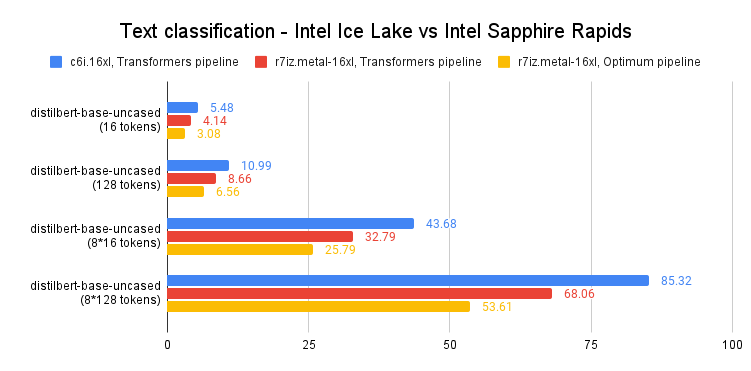
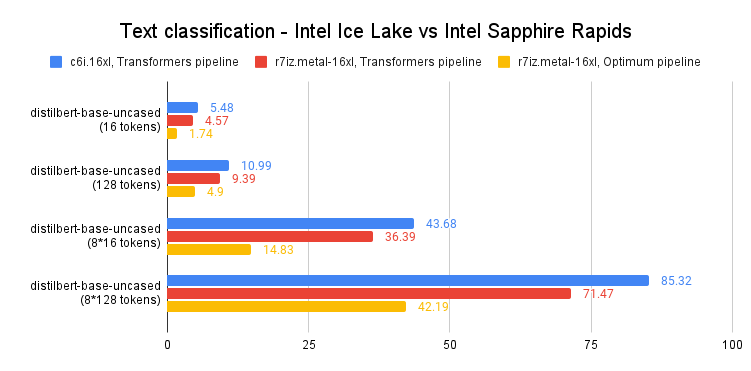
- Added jit mode - Updated benchmarks - Small clarifications and edits

diff --git a/intel-sapphire-rapids-inference.md b/intel-sapphire-rapids-inference.md
@@ -24,7 +24,7 @@ Accelerating PyTorch Transformers with Intel Sapphire Rapids, part 2</h1>
     </a>
 </div>
 
-In a [recent post](https://huggingface.co/blog/intel-sapphire-rapids), we introduced you to the fourth generation of Intel Xeon CPUs, code-named [Sapphire Rapids](https://en.wikipedia.org/wiki/Sapphire_Rapids), and its new Advanced Matrix Extensions ([AMX](https://en.wikipedia.org/wiki/Advanced_Matrix_Extensions)) instruction set. Combining a cluster of Sapphire Rapids servers running on Amazon EC2 and Intel libraries like the [Intel oneAPI Collective Communications Library](https://www.intel.com/content/www/us/en/developer/tools/oneapi/oneccl.html) (CCL) and the [Intel Extension for PyTorch](https://github.com/intel/intel-extension-for-pytorch), we showed you how to efficiently run distributed training at scale, achieving both an 8-fold speedup compared to the previous Xeon generation (Ice Lake) and near-linear scaling.
+In a [recent post](https://huggingface.co/blog/intel-sapphire-rapids), we introduced you to the fourth generation of Intel Xeon CPUs, code-named [Sapphire Rapids](https://en.wikipedia.org/wiki/Sapphire_Rapids), and its new Advanced Matrix Extensions ([AMX](https://en.wikipedia.org/wiki/Advanced_Matrix_Extensions)) instruction set. Combining a cluster of Sapphire Rapids servers running on Amazon EC2 and Intel libraries like the [Intel Extension for PyTorch](https://github.com/intel/intel-extension-for-pytorch), we showed you how to efficiently run distributed training at scale, achieving an 8-fold speedup compared to the previous Xeon generation (Ice Lake) with near-linear scaling.
 
 In this post, we're going to focus on inference. Working with popular HuggingFace transformers implemented with PyTorch, we'll first measure their performance on an Ice Lake server for short and long NLP token sequences. Then, we'll do the same with a Sapphire Rapids server and the latest version of Hugging Face [Optimum Intel](https://github.com/huggingface/optimum-intel), an open-source library dedicated to hardware acceleration for Intel platforms.
 
@@ -53,7 +53,7 @@ Both instances have 32 physical cores (thus, 64 vCPUs). We will set them up in t
 * PyTorch 1.13 with Intel Extension for PyTorch 1.13, 
 * Transformers 4.25.1.
 
-The only difference will be the Optimum Intel Library on the r7iz instance.
+The only difference will be the addition of the Optimum Intel Library on the r7iz instance.
 
 Here are the setup steps. As usual, we recommend using a virtual environment to keep things nice and tidy.
 
@@ -73,11 +73,10 @@ source inference_env/bin/activate
 
 pip3 install torch==1.13.0 -f https://download.pytorch.org/whl/cpu
 pip3 install intel_extension_for_pytorch==1.13.0 -f https://developer.intel.com/ipex-whl-stable-cpu
-pip3 install transformers==4.25.1
+pip3 install transformers
 
 # Only needed on the r7iz instance
 pip3 install optimum[intel]
-
 ```
 
 Once we've completed these steps on the two instances, we can start running our tests.
@@ -96,7 +95,7 @@ Using both 16-token and 128-token sentences, we will measure mean and p99 predic
 sentence_short = "This is a really nice pair of shoes, I am completely satisfied with my purchase"
 sentence_short_array = [sentence_short] * 8
 
-sentence_long = "These Adidas Lite Racer shoes hit a nice sweet spot for comfort shoes. Despite being a little snug in the toe box, these are very comfortable to wear and provide nice support while wearing. I would stop short of saying they are good running shoes or cross-trainers because they simply lack the ankle and arch support most would desire in those type of shoes and the treads wear fairly quickly, but they are definitely comfortable. I actually walked around Disney World all day in these without issue if that is any reference. Bottom line, I use these as the shoes they are best; versatile, inexpensive and comfortable, without expecting the performance of a high-end athletic sneaker or expecting the comfort of my favorite pair of slippers."
+sentence_long = "These Adidas Lite Racer shoes hit a nice sweet spot for comfort shoes. Despite being a little snug in the toe box, these are very comfortable to wear and provide nice support while wearing. I would stop short of saying they are good running shoes or cross-trainers because they simply lack the ankle and arch support most would desire in those type of shoes and the treads wear fairly quickly, but they are definitely comfortable. I actually walked around Disney World all day in these without issue if that is any reference. Bottom line, I use these as the shoes they are best; versatile, inexpensive, and comfortable, without expecting the performance of a high-end athletic sneaker or expecting the comfort of my favorite pair of slippers."
 sentence_long_array = [sentence_long] * 8
 ```
 
@@ -139,14 +138,14 @@ for model in models:
     print(f"Transformers pipeline, long sentence array: {result}")
 ```
 
-On the r7iz (Sapphire Rapids) instance, we use both a vanilla pipeline and an Optimum pipeline in `bfloat16` mode to leverage the AMX instructions.
+On the r7iz (Sapphire Rapids) instance, we use both a vanilla pipeline and an Optimum pipeline. In the Optimum pipeline, we enable `bfloat16` mode to leverage the AMX instructions. We also set `jit` to `True` to further optimize the model with just-in-time compilation. 
 
 
 ```
    import torch
 	from optimum.intel import inference_mode
 	
-	with inference_mode(pipe, dtype=torch.bfloat16, verbose=False) as opt_pipe:
+	with inference_mode(pipe, dtype=torch.bfloat16, jit=True) as opt_pipe:
 	    result = benchmark(opt_pipe, sentence_short)
 	    print(f"Optimum pipeline, short sentence: {result}")
 	    result = benchmark(opt_pipe, sentence_long)
@@ -157,19 +156,19 @@ On the r7iz (Sapphire Rapids) instance, we use both a vanilla pipeline and an Op
 	    print(f"Optimum pipeline, long sentence array: {result}")
 ```
 
-For the sake of brevity, we'll just look at the p99 results for [distilbert-base-uncased](https://huggingface.co/distilbert-base-uncased). You'll find all other results at the end of the post. 
+For the sake of brevity, we'll just look at the p99 results for [distilbert-base-uncased](https://huggingface.co/distilbert-base-uncased). You'll find all the other results at the end of the post. 
 
 <kbd>
   <img src="assets/126_intel_sapphire_rapids_inference/01.png">
 </kbd>
 
-As you can see in the graph above, we get **35-40%** speedup out of the box, thanks to the combination of acceleration features present in the Sapphire Rapids architecture and in Hugging Face Optimum. 
+As you can see in the graph above, single predictions run **60-65%** faster compared to the previous generation of Xeon CPUs. In other words, thanks to the combination of Intel Sapphire Rapids and Hugging Face Optimum, you can accelerate your predictions 3x with only tiny changes to your code.
 
-This lets us achieve reach **single-digit prediction latency** even with long text sequences, which was only possible with GPUs so far.
+This lets you achieve reach **single-digit prediction latency** even with long text sequences, which was only possible with GPUs so far.
 
 ## Conclusion
 
-As you can see, the fourth generation of Intel Xeon CPUs delivers excellent inference performance, especially when combined with Hugging Face Optimum. This is yet another step on the way to making Deep Learning more accessible and more cost-effective, and we're looking forward to continuing this work with our friends at Intel.
+The fourth generation of Intel Xeon CPUs delivers excellent inference performance, especially when combined with Hugging Face Optimum. This is yet another step on the way to making Deep Learning more accessible and more cost-effective, and we're looking forward to continuing this work with our friends at Intel.
 
 Here are some additional resources to help you get started:
 
@@ -189,5 +188,5 @@ Thanks for reading!
   <img src="assets/126_intel_sapphire_rapids_inference/02.png">
 </kbd>
 
-*Ubuntu 22.04 with libtcmalloc, Linux 5.15.0 patched for Intel AMX support, PyTorch 1.13 with Intel Extension for PyTorch, Transformers 4.25.1, Optimum 1.6.1*
+*Ubuntu 22.04 with libtcmalloc, Linux 5.15.0 patched for Intel AMX support, PyTorch 1.13 with Intel Extension for PyTorch, Transformers 4.25.1, Optimum 1.6.1, Optimum Intel 1.7.0.dev0*
  
